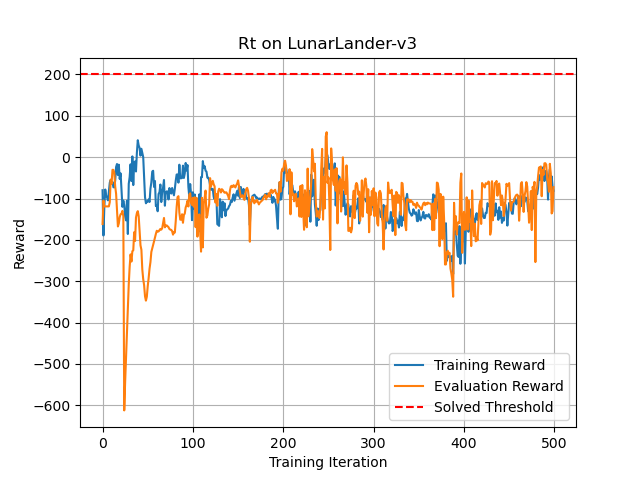
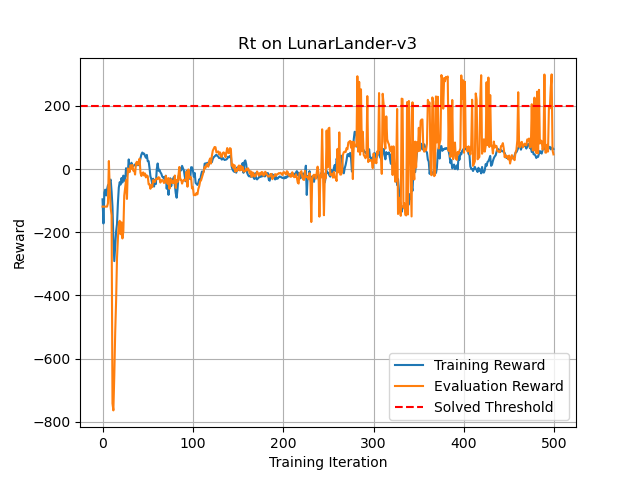
optimization

diff --git a/PG.py b/PG.py
@@ -226,16 +226,17 @@ class PGAgent():
             state_trajs = torch.split(states_ten, torch.diff(split_points).tolist())
             reward_trajs = torch.split(rewards_ten, torch.diff(split_points).tolist())
             action_trajs = torch.split(action_ten, torch.diff(split_points).tolist())
-            loss = 0
+            discounted_rewards = []
+            logprobs = []
             for i in range(len(state_trajs)):
-                logprobs = self.policy.get_log_prob(state_trajs[i], action_trajs[i])
+                logprobs.append(self.policy.get_log_prob(state_trajs[i], action_trajs[i]))
                 discount_factors = self.discount ** torch.arange(len(reward_trajs[i]), device=reward_trajs[i].device, dtype=torch.float32)
-                discounted_reward = torch.sum(reward_trajs[i].float().view(-1) * discount_factors) 
-                loss += - discounted_reward * logprobs.sum()
+                discounted_rewards.append(torch.sum(reward_trajs[i].float().view(-1) * discount_factors))
+            discounted_rewards = torch.stack(discounted_rewards)
+            discounted_rewards = (discounted_rewards - torch.mean(discounted_rewards)) / torch.std(discounted_rewards)
+            logprobs = torch.stack([lp.sum() for lp in logprobs])
+            loss = - torch.sum(discounted_rewards * logprobs)
                 
-            self.optimizer_policy.zero_grad()
-            loss.backward()
-            self.optimizer_policy.step()
             
             
             ################################# 
@@ -285,6 +286,9 @@ class PGAgent():
             # Do steps 5-7
             #################################
 
+        self.optimizer_policy.zero_grad()
+        loss.backward()
+        self.optimizer_policy.step()
 
 
 if __name__ == "__main__":
